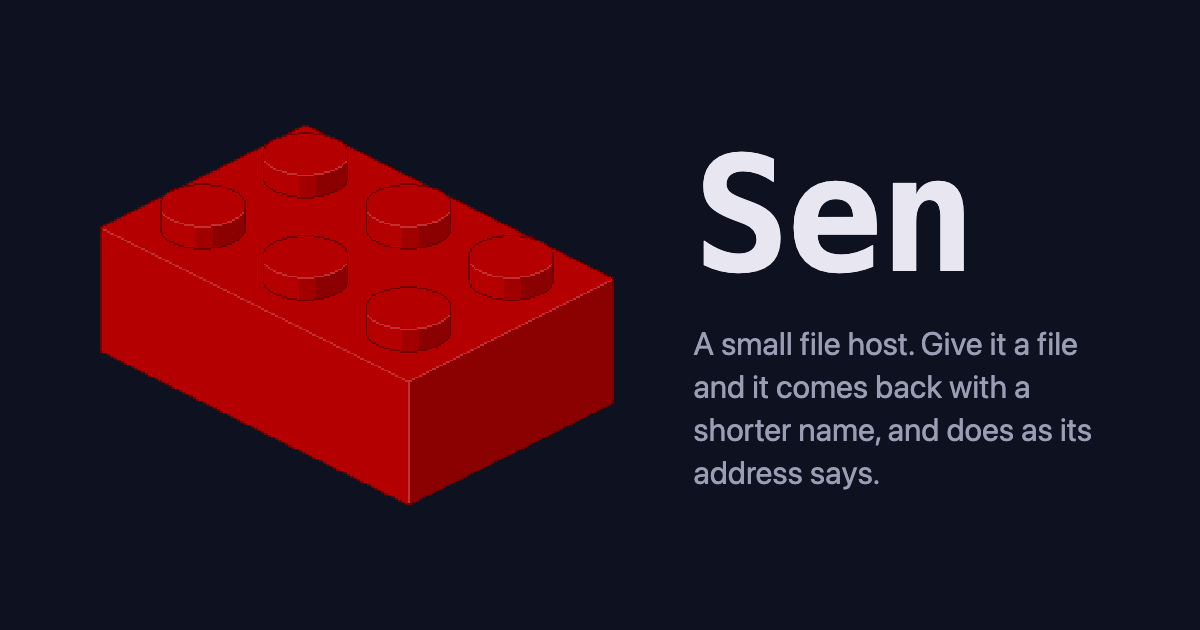
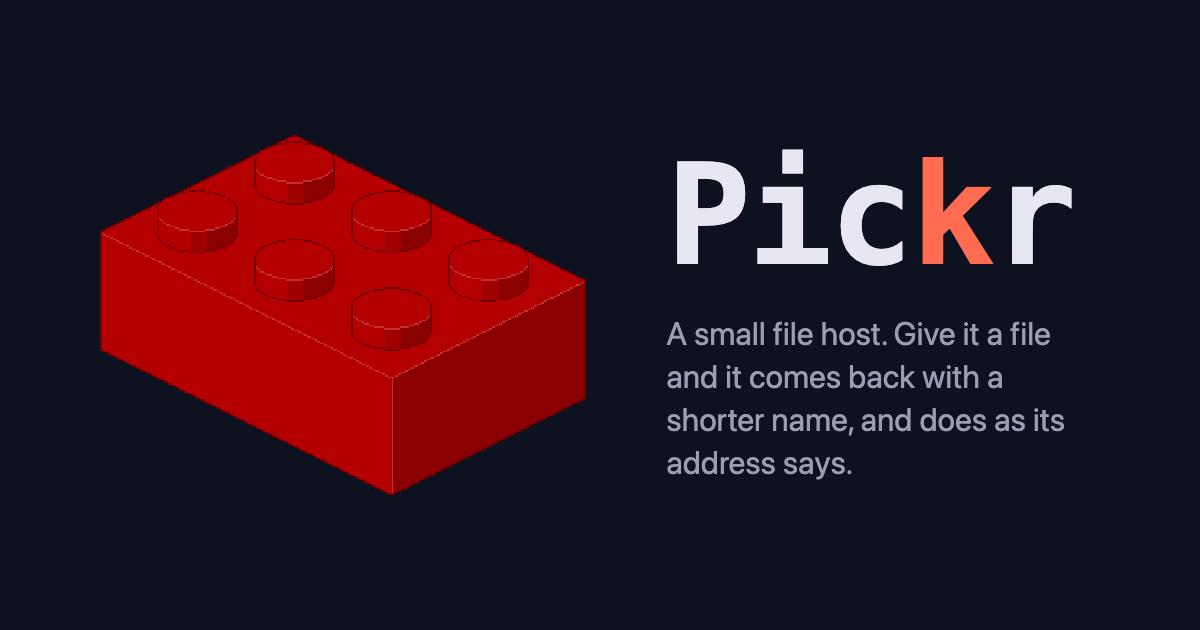
home: Sen becomes Pickr, with the k in red as pickr.me had it
For consistency with the repo, the CLI and the old site. The card's type
comes down a size so the longer word fits beside the brick.

diff --git a/test/home.test.js b/test/home.test.js
@@ -169,16 +169,17 @@ test('the sharing card is 1200 by 630 and says what the page says', async () => 
   const { channels } = await sharp(join(ROOT, 'public', 'card.png')).stats();
   assert.ok(channels.some((c) => c.stdev > 20), 'not one flat colour');
   const html = await readFile(join(ROOT, 'art', 'card.html'), 'utf8');
-  assert.match(html, /<h1>Sen<\/h1>/);
+  assert.match(html, /<h1>Pic<span class="k">k<\/span>r<\/h1>/, 'the k in red, as pickr.me had it');
+  assert.match(html, /\.k \{ color: #ff6c52; \}/);
   assert.ok(html.includes(`<p>${LINE}</p>`), 'the card carries the line, verbatim');
   assert.doesNotMatch(html, /i\.juan\.is/, 'no address on the card');
 });
 
-test('the head names the page Sen and carries its marks and card', async () => {
+test('the head names the page Pickr and carries its marks and card', async () => {
   const sharp = (await import('sharp')).default;
   const html = await readFile(join(ROOT, 'public', 'index.html'), 'utf8');
   const head = html.slice(0, html.indexOf('</head>'));
-  assert.match(head, /<title>Sen<\/title>/);
+  assert.match(head, /<title>Pickr<\/title>/);
   assert.ok(head.includes(`<meta name="description" content="${LINE}">`));
   assert.match(head, /<meta name="theme-color" content="#f4f1e8" media="\(prefers-color-scheme: light\)">/);
   assert.match(head, /<meta name="theme-color" content="#0e1120" media="\(prefers-color-scheme: dark\)">/);
@@ -186,7 +187,7 @@ test('the head names the page Sen and carries its marks and card', async () => {
   assert.match(head, /<link rel="icon" href="\/_\/icon-32\.png" type="image\/png" sizes="32x32">/);
   assert.match(head, /<link rel="apple-touch-icon" href="\/_\/apple-touch-icon\.png">/);
   assert.match(head, /<link rel="canonical" href="https:\/\/i\.juan\.is\/">/);
-  for (const [p, v] of [['type', 'website'], ['title', 'Sen'], ['description', LINE], ['url', 'https://i.juan.is/'], ['image', 'https://i.juan.is/_/card.png'], ['image:width', '1200'], ['image:height', '630'], ['locale', 'en_GB']]) {
+  for (const [p, v] of [['type', 'website'], ['title', 'Pickr'], ['description', LINE], ['url', 'https://i.juan.is/'], ['image', 'https://i.juan.is/_/card.png'], ['image:width', '1200'], ['image:height', '630'], ['locale', 'en_GB']]) {
     assert.ok(head.includes(`<meta property="og:${p}" content="${v}">`), `og:${p}`);
   }
   assert.match(head, /<meta property="og:image:alt" content="[^"]+">/);
@@ -203,7 +204,8 @@ test('the header is the brick in one column and the name and line in the other',
   const brick = await sharp(join(ROOT, 'public', 'brick.png')).metadata();
   const header = html.match(/<header class="intro">[\s\S]*?<\/header>/)[0];
   assert.ok(header.includes(`<img class="brick" src="/_/brick.png" alt="" width="${brick.width}" height="${brick.height}">`), 'the brick, at its real size, decorative');
-  assert.match(header, /<div>\s*<h1>Sen<\/h1>\s*<p>/, 'name over line, in their own column');
+  assert.match(header, /<div>\s*<h1>Pic<span class="k">k<\/span>r<\/h1>\s*<p>/, 'name over line, in their own column, the k in red');
+  assert.match(css, /\.intro \.k \{ color: var\(--red\); \}/);
   assert.ok(header.includes(`<p>${LINE} The uploads are private; the <a href="https://github.com/juanfuria/pickr/blob/main/API.md">API</a> and the <a href="https://github.com/juanfuria/pickr">code</a> are public. Move something and watch the address change.</p>`), "the uploads line lives under the title now");
   assert.doesNotMatch(html, /<footer/, "and the footer that held it is gone");
   assert.doesNotMatch(header, /i\.juan\.is/, 'no address in the header');

diff --git a/public/index.html b/public/index.html
@@ -3,7 +3,7 @@
 <head>
 <meta charset="utf-8">
 <meta name="viewport" content="width=device-width, initial-scale=1">
-<title>Sen</title>
+<title>Pickr</title>
 <meta name="description" content="A small file host. Give it a file and it comes back with a shorter name, and does as its address says.">
 <meta name="color-scheme" content="light dark">
 <meta name="theme-color" content="#f4f1e8" media="(prefers-color-scheme: light)">
@@ -13,13 +13,13 @@
 <link rel="icon" href="/_/icon-32.png" type="image/png" sizes="32x32">
 <link rel="apple-touch-icon" href="/_/apple-touch-icon.png">
 <meta property="og:type" content="website">
-<meta property="og:title" content="Sen">
+<meta property="og:title" content="Pickr">
 <meta property="og:description" content="A small file host. Give it a file and it comes back with a shorter name, and does as its address says.">
 <meta property="og:url" content="https://i.juan.is/">
 <meta property="og:image" content="https://i.juan.is/_/card.png">
 <meta property="og:image:width" content="1200">
 <meta property="og:image:height" content="630">
-<meta property="og:image:alt" content="A red lego brick beside the word Sen">
+<meta property="og:image:alt" content="A red lego brick beside the word Pickr">
 <meta property="og:locale" content="en_GB">
 <meta name="twitter:card" content="summary_large_image">
 <link rel="stylesheet" href="/_/home.css">
@@ -31,7 +31,7 @@
     <header class="intro">
       <img class="brick" src="/_/brick.png" alt="" width="300" height="222">
       <div>
-        <h1>Sen</h1>
+        <h1>Pic<span class="k">k</span>r</h1>
         <p>A small file host. Give it a file and it comes back with a shorter name, and does as its address says. The uploads are private; the <a href="https://github.com/juanfuria/pickr/blob/main/API.md">API</a> and the <a href="https://github.com/juanfuria/pickr">code</a> are public. Move something and watch the address change.</p>
       </div>
     </header>

diff --git a/art/card.html b/art/card.html
@@ -2,20 +2,21 @@
 <html lang="en-GB">
 <head>
 <meta charset="utf-8">
-<title>Sen card</title>
+<title>Pickr card</title>
 <!-- The sharing card, 1200 by 630, rendered to public/card.png by headless Chrome from art/make-marks.mjs. -->
 <style>
 html, body { margin: 0; }
 body { width: 1200px; height: 630px; box-sizing: border-box; padding: 0 100px; display: flex; align-items: center; gap: 80px; background: #0e1120; color: #e8e6f1; font-family: system-ui, -apple-system, "Segoe UI", Roboto, sans-serif; }
-img { height: 380px; width: auto; flex: none; image-rendering: pixelated; }
-h1 { margin: 0 0 26px; font: 700 160px/1 ui-monospace, "SF Mono", Menlo, Consolas, monospace; letter-spacing: -0.02em; }
+img { height: 360px; width: auto; flex: none; image-rendering: pixelated; }
+h1 { margin: 0 0 26px; font: 700 140px/1 ui-monospace, "SF Mono", Menlo, Consolas, monospace; letter-spacing: -0.02em; }
 p { margin: 0; max-width: 560px; font-size: 32px; line-height: 1.35; color: #9b9db4; }
+.k { color: #ff6c52; }
 </style>
 </head>
 <body>
 <img src="../public/brick.png" alt="">
 <div>
-<h1>Sen</h1>
+<h1>Pic<span class="k">k</span>r</h1>
 <p>A small file host. Give it a file and it comes back with a shorter name, and does as its address says.</p>
 </div>
 </body>

diff --git a/public/home.css b/public/home.css
@@ -62,6 +62,7 @@ a { color: var(--ink); }
 .intro { display: grid; grid-template-columns: auto 1fr; column-gap: 22px; align-items: center; }
 .intro .brick { height: 104px; width: auto; display: block; }
 .intro h1 { margin: 0 0 6px; font: 700 clamp(28px, 4.5vw, 42px)/1.1 var(--mono); letter-spacing: -0.02em; color: var(--ink); }
+.intro .k { color: var(--red); }
 .intro p { margin: 0; max-width: 62ch; color: var(--muted); }
 @media (max-width: 559px) { .intro { column-gap: 14px; } .intro .brick { height: 72px; } }
 

diff --git a/README.md b/README.md
@@ -2,7 +2,7 @@
 
 An imgix-style file host for `i.juan.is`: originals served by nginx, images resized on demand and cached, video streamed, files served as themselves. Uploads through an API with per-account keys. Spec and decisions live in the pixelatedrobots folder (`docs/superpowers/specs/2026-10-28-pickr-design.md`).
 
-The page at the root calls itself **Sen**, after Spirited Away: it takes your file's name at the door and hands back a shorter one. The software is pickr. Its icons and the sharing card come from `public/brick.png` by `npm run marks` (sharp, and Google Chrome for the card); commit what it writes.
+The page at the root calls itself **Pickr** too, with the k in red as pickr.me had it. Its icons and the sharing card come from `public/brick.png` by `npm run marks` (sharp, and Google Chrome for the card); commit what it writes.
 
 ## Run locally
 
